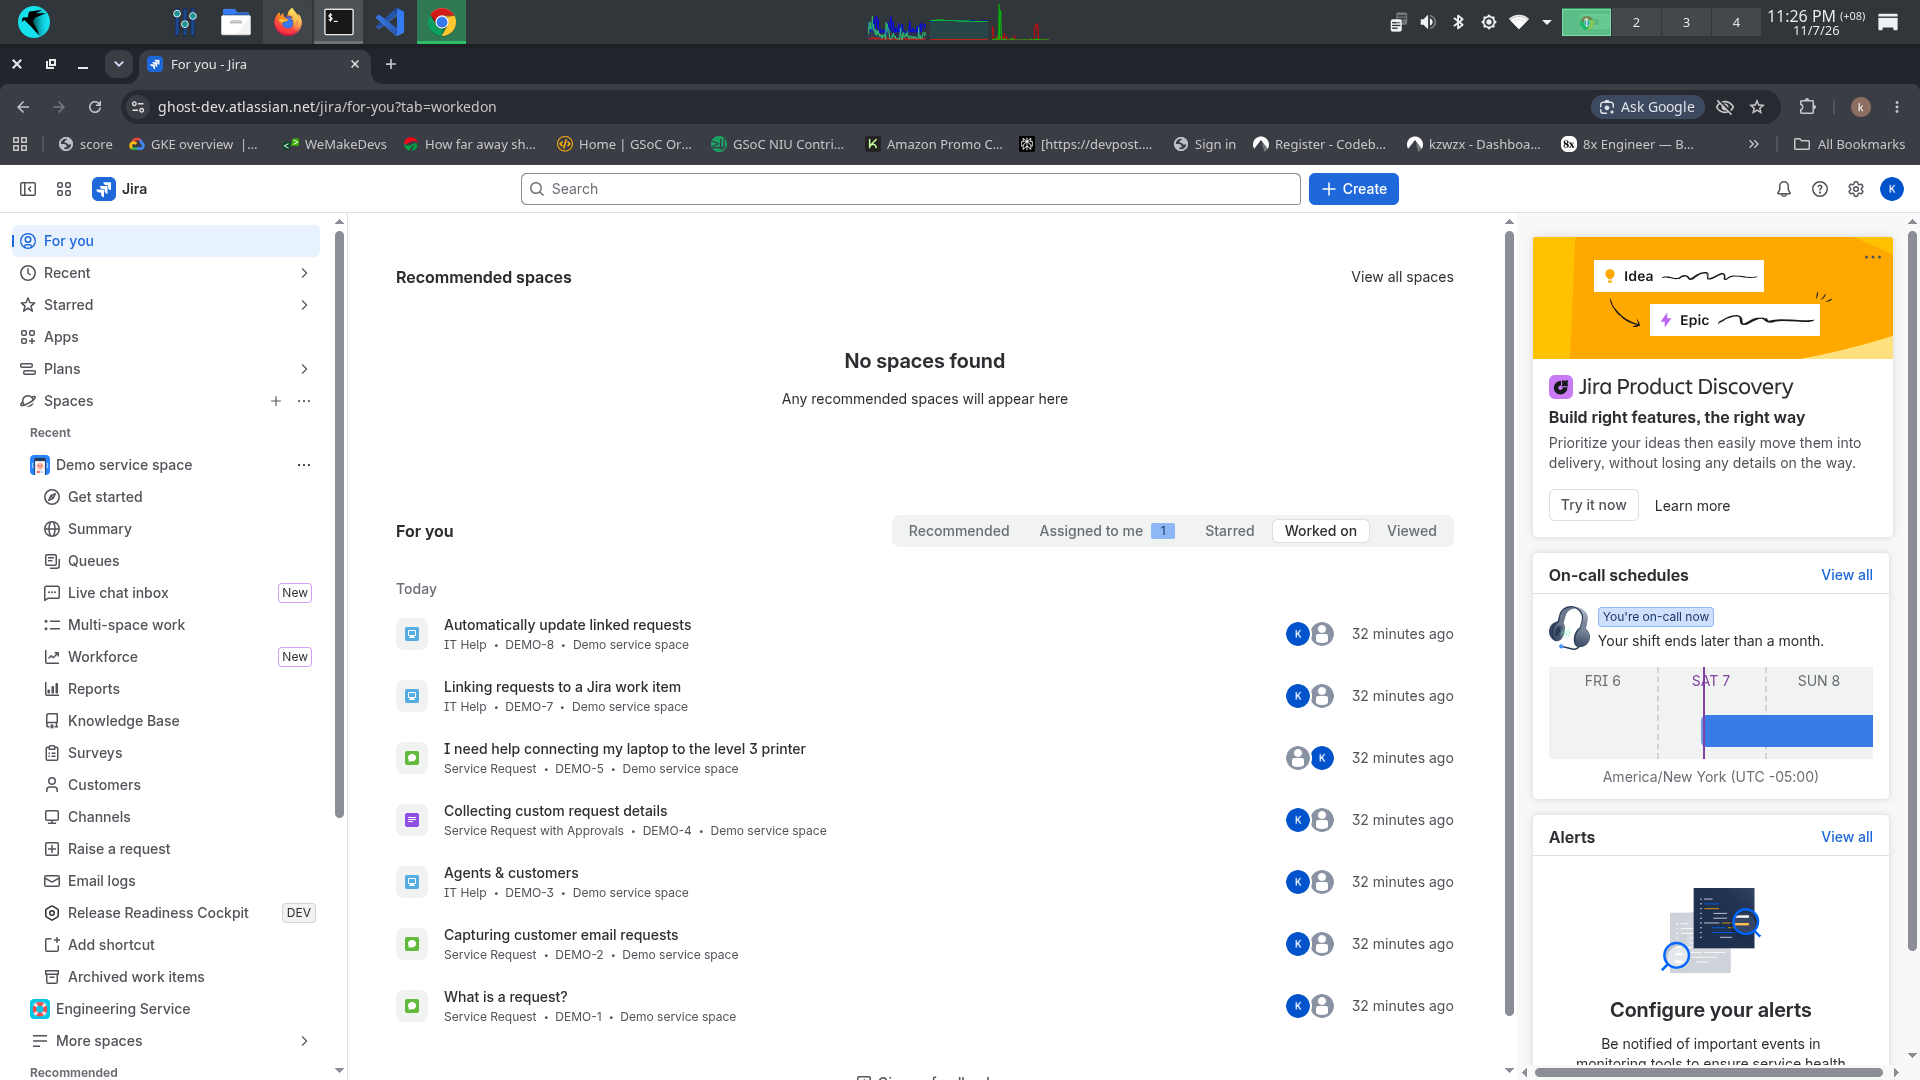
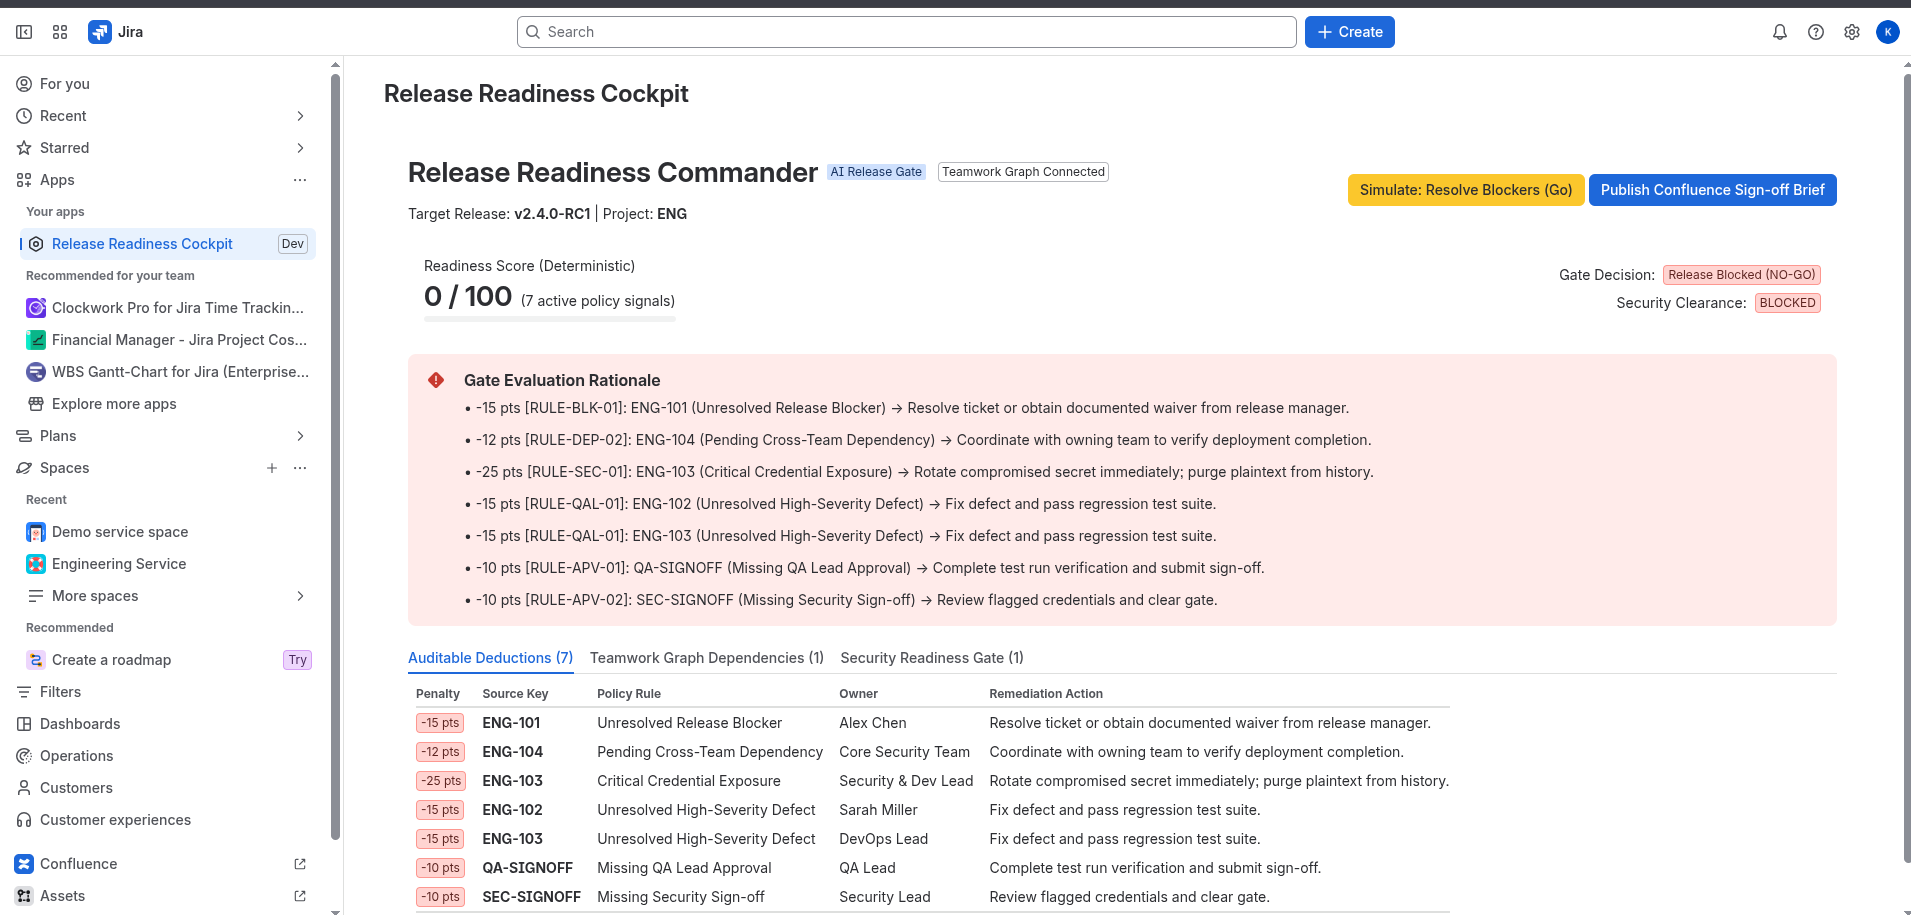
docs: replace screenshot with clean borderless Jira cockpit view

diff --git a/README.md b/README.md
@@ -36,7 +36,7 @@ For judges evaluating the live environment:
 | **App ARI** | `ari:cloud:ecosystem::app/5c1b3b3c-0be8-4cf1-a15b-9550459dc6d0` |
 | **Jira Cockpit Location** | Jira Project Sidebar → **Release Readiness Cockpit** (or Top Nav **Apps** → **Release Readiness Cockpit**) |
 
-![Installed Cockpit in Jira](docs/images/jira-installed-cockpit.png)
+![Release Readiness Cockpit - Live Jira Installation](docs/images/cockpit-live-view.png)
 
 ---
 
@@ -200,6 +200,8 @@ Built with `@forge/react` UI Kit:
 * **Teamwork Graph Tab**: Visual list of cross-service blocker relationships and upstream teams.
 * **Security Clearance Tab**: Real-time summary of credential scans and PII findings.
 * **1-Click Simulation Toggle**: Instant toggle between active blocked state and cleared ready-to-ship state for live demos.
+
+![Release Readiness Cockpit UI Breakdown](docs/images/cockpit-live-view.png)
 
 ---
 
